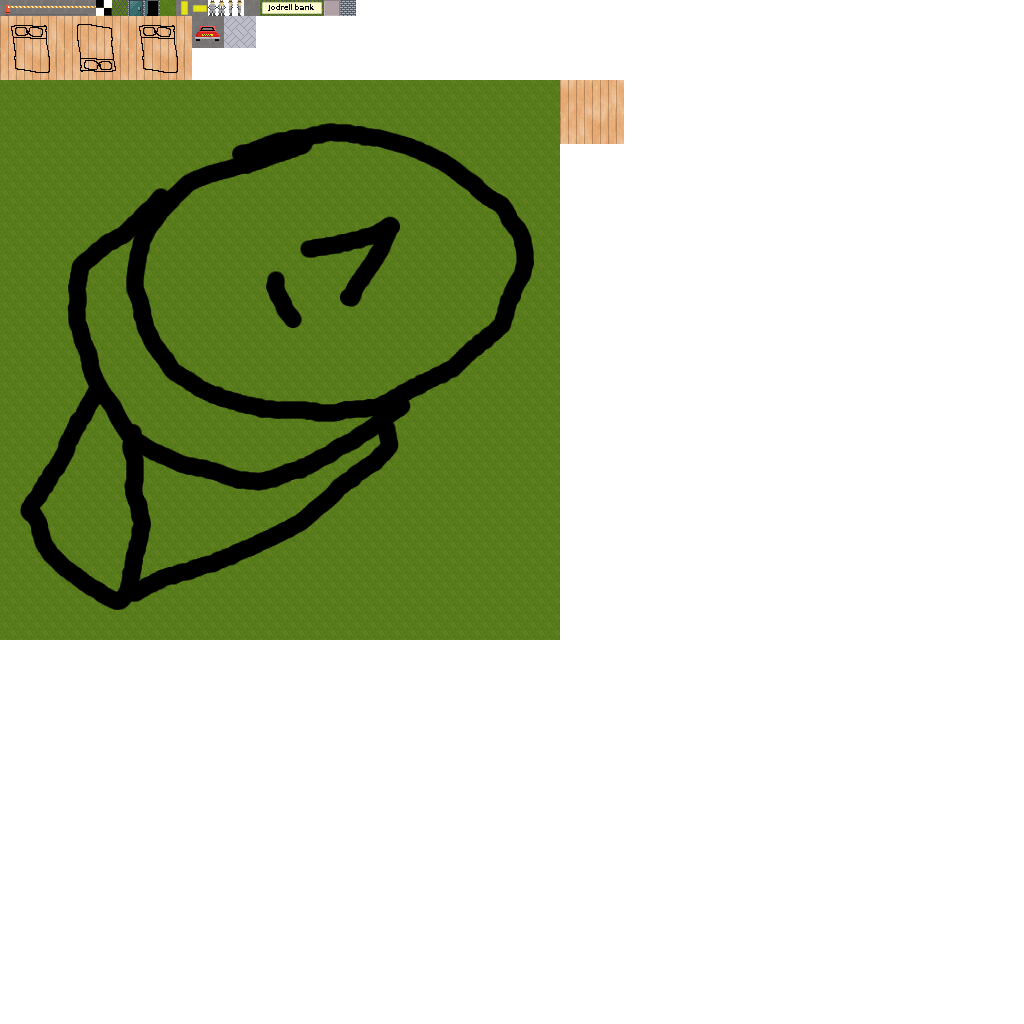
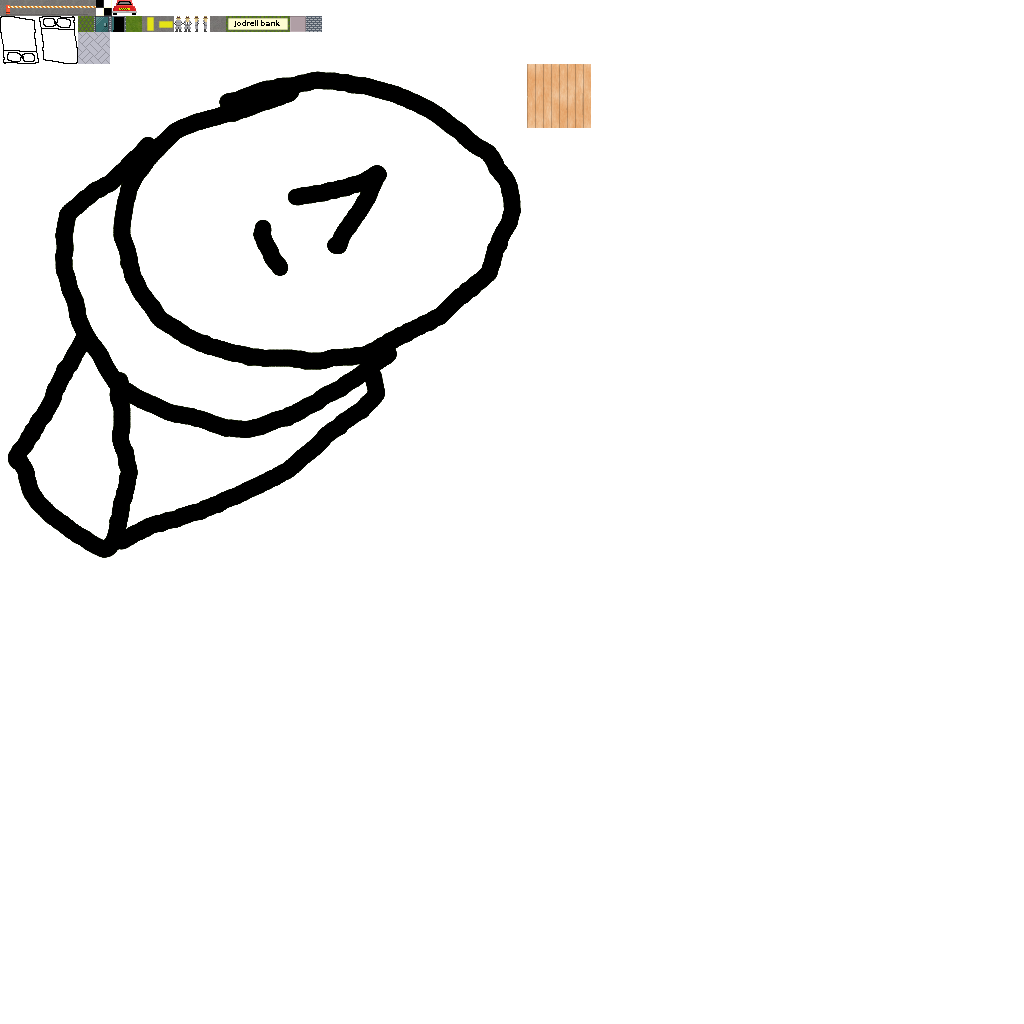
More on the objects

diff --git a/game_view.py b/game_view.py
@@ -119,18 +119,15 @@ class TileTypes:
     CHAINLINK          = 9
     JODRELL_SIGN       = 10
     BARRIER            = 11
-    CAR                = 12
     ROAD_MARKING_HORIZ = 13
-    DISH               = 14
     WOOD               = 15
     BATHROOM_TILE      = 16
     LAB_TILE           = 17
     DOOR_LOCKED        = 18
-    LOCKER             = 21
 
     Doors      = set((DOOR_CLOSED,DOOR_OPEN,DOOR_LOCKED))
     Computers  = set()
-    Impassable = set((WALL,DOOR_CLOSED,CHAINLINK,JODRELL_SIGN,BARRIER,CAR,DISH,LOCKER)) | Computers
+    Impassable = set((WALL,DOOR_CLOSED,CHAINLINK,JODRELL_SIGN,BARRIER)) | Computers
 
 class TileData(object):
     texture_names = {TileTypes.GRASS         : 'grass.png',
@@ -145,8 +142,6 @@ class TileData(object):
                      TileTypes.JODRELL_SIGN  : 'sign.png',
                      TileTypes.CHAINLINK     : 'chain.png',
                      TileTypes.BARRIER       : 'barrier.png',
-                     TileTypes.CAR           : 'car.png',
-                     TileTypes.DISH          : 'dish.png',
                      TileTypes.WOOD          : 'wood.png',
                      TileTypes.BATHROOM_TILE : 'bathroom_tile.png',
                      TileTypes.LAB_TILE      : 'labtile.png',
@@ -178,18 +173,26 @@ class ObjectTypes:
     CAR      = 5
 
 class GameObject(object):
-    texture_names = {ObjectTypes.BED_UP   : ('bed_up.png'  ,Point(0,0)),
-                     ObjectTypes.BED_DOWN : ('bed_down.png',Point(0,0)),
-                     ObjectTypes.CAR      : ('car.png'     ,Point(0,0)),
-                     ObjectTypes.DISH     : ('dish.png'    ,Point(0,0))}
+    texture_names = {ObjectTypes.BED_UP   : ('bedup.png'   , Point(0,0)),
+                     ObjectTypes.BED_DOWN : ('beddown.png' , Point(0,0)),
+                     ObjectTypes.CAR      : ('car.png'     , Point(0,2)),
+                     ObjectTypes.DISH     : ('dish.png'    , Point(0,0))}
     def __init__(self,pos):
         self.pos = pos
-        self.name = self.texture_names[self.type]
-        self.size = ((globals.atlas.TextureSubimage(self.name).size)/globals.tile_dimensions).to_int()
+        self.name,self.offset = self.texture_names[self.type]
+        self.size = ((globals.atlas.TextureSubimage(self.name).size.to_float())/globals.tile_dimensions)
         self.quad = drawing.Quad(globals.quad_buffer,tc = globals.atlas.TextureSpriteCoords(self.name))
-        bl        = pos * globals.tile_dimensions
+        bl        = (pos + self.offset) * globals.tile_dimensions
         tr        = bl + self.size*globals.tile_dimensions
-        self.quad.SetVertices(bl,tr,0)
+        print self.name,self.size,bl,tr
+        self.quad.SetVertices(bl,tr,1)
+
+    def CoveredTiles(self):
+        bl = (self.pos + self.offset).to_int()
+        tr = (bl + self.size + Point(1,1)).to_int()
+        for x in xrange(bl.x,tr.x):
+            for y in xrange(bl.y,tr.y):
+                yield (x,y)
 
     def Interact(self,player):
         pass
@@ -257,8 +260,6 @@ class GameMap(object):
                      'c' : TileTypes.CHAINLINK,
                      's' : TileTypes.JODRELL_SIGN,
                      'p' : TileTypes.PLAYER,
-                     'v' : TileTypes.CAR,
-                     'D' : TileTypes.DISH,
                      'w' : TileTypes.WOOD,
                      't' : TileTypes.BATHROOM_TILE,
                      'b' : TileTypes.BARRIER,
@@ -301,6 +302,17 @@ class GameMap(object):
                 y -= 1
                 if y < 0:
                     break
+
+        self.AddObject(Dish(Point(44,38)))
+        self.AddObject(Bed(Point(86,21)))
+        self.AddObject(Car(Point(73,2)))
+
+    def AddObject(self,obj):
+        self.object_list.append(obj)
+        #Now for each tile that the object touches, put it in the cache
+        for tile in obj.CoveredTiles():
+            print obj.name,tile
+            self.object_cache[tile] = obj
 
 class GameView(ui.RootElement):
     def __init__(self):

diff --git a/modes.py b/modes.py
@@ -182,6 +182,7 @@ class GameMode(Mode):
 
         elif key == pygame.K_SPACE:
             facing = self.parent.map.player.Facing()
+            print facing
             if not facing:
                 return
             try:
@@ -202,3 +203,5 @@ class GameMode(Mode):
             actor = self.parent.map.player.AdjacentActor()
             if actor:
                 actor.Converse()
+
+                

diff --git a/actors.py b/actors.py
@@ -49,7 +49,7 @@ class Actor(object):
         tr = bl + (globals.tile_scale*Point(self.width,self.height))
         bl = bl.to_int()
         tr = tr.to_int()
-        self.quad.SetVertices(bl,tr,1)
+        self.quad.SetVertices(bl,tr,4)
     
     def Facing(self):
         facing = self.pos + (self.size/2) + self.dirs_pos[self.dir]
